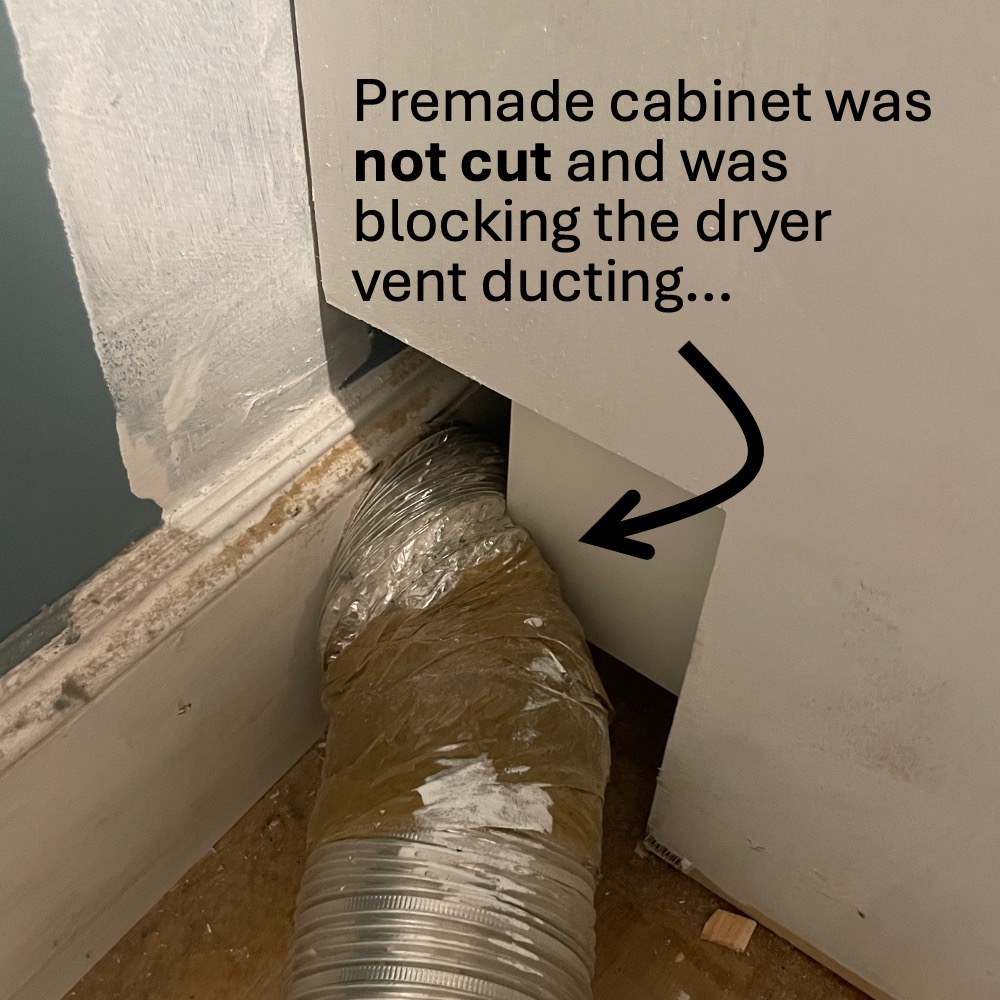
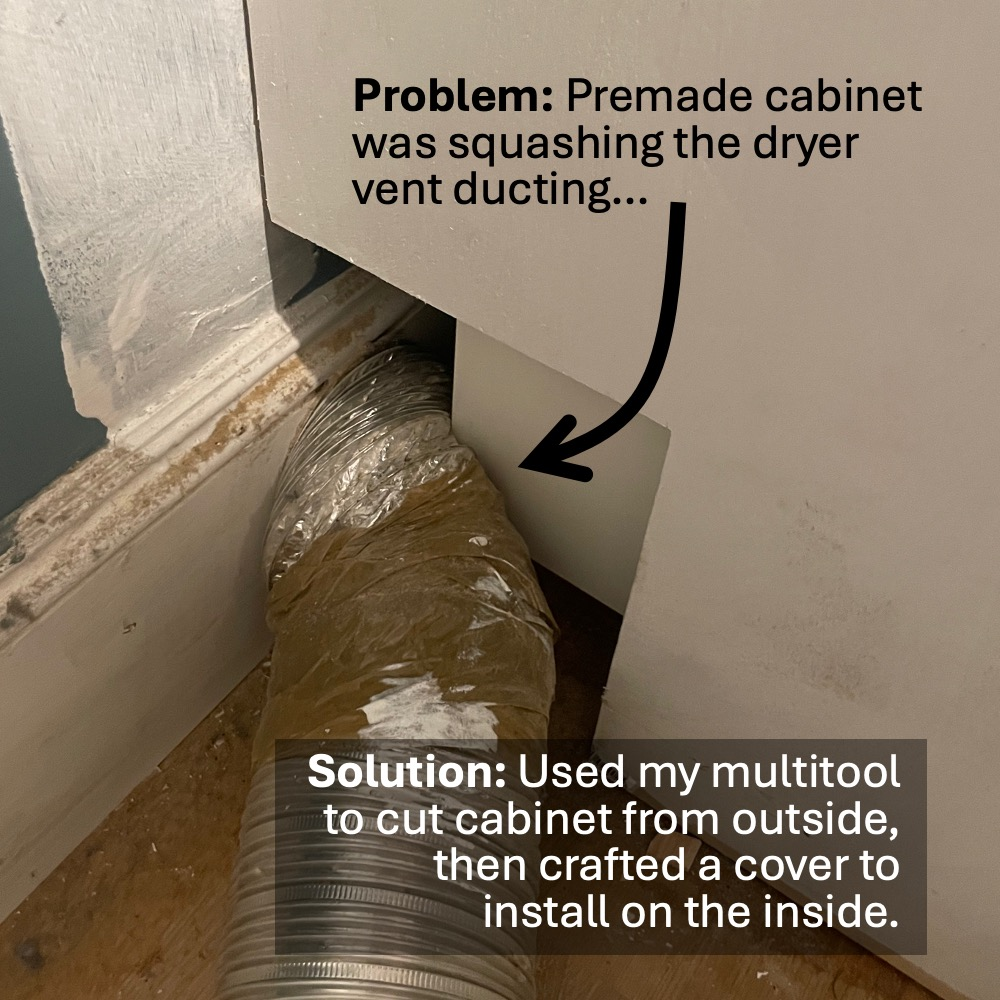
more

diff --git a/_posts/2024-09-20-laundry.md b/_posts/2024-09-20-laundry.md
@@ -40,10 +40,10 @@ The two 16" door slabs swing open with [3.5" hinges](https://www.amazon.com/gp/p
 
 | Challenge | Solution | 
 | --- | --- | 
-| Doors are unfinished. :evergreen_tree: | :heavy_check_mark: Pine was sanded, primed, sanded, and painted twice! :woman_artist: | 
-| Unused bifold track shortened door slabs by 1.5". :door: | :heavy_check_mark: Added strips of wood to the top of the door frame to fill the gap. | 
-| Standard door knob bore holes (2 1/8") don't fit. :hole: | :heavy_check_mark: Installed [antique mortise-style door knobs](https://www.amazon.com/gp/product/B0B74STSV9) instead. |
-| Interior light switch is now blocked. :bulb: | :heavy_check_mark: Relocated switch to hallway using a [wireless receiver kit](https://www.amazon.com/gp/product/B09YHBHP8T/). | 
+| :evergreen_tree: Doors are unfinished. | :heavy_check_mark: Pine was sanded, primed, sanded, and painted twice! :woman_artist: | 
+| :door: Unused bifold track shortened door slabs by 1.5". | :heavy_check_mark: Added strips of wood to the top of the door frame to fill the gap. | 
+| :hole: Standard door knob bore holes (2 1/8") don't fit. | :heavy_check_mark: Installed [antique mortise-style door knobs](https://www.amazon.com/gp/product/B0B74STSV9) instead. |
+| :bulb: Interior light switch is now blocked. | :heavy_check_mark: Relocated switch to hallway using a [wireless receiver kit](https://www.amazon.com/gp/product/B09YHBHP8T/). | 
 
 ![layout](../assets/img/laundry19.jpg){: .mx-auto.d-block :}
 
@@ -54,11 +54,11 @@ because of the flexibility for shelves and cabinet doors.
 
 | Challenge | Solution | 
 | --- | --- | 
-| Cabinet is 90" high in a 93" high room. :ladder: | :heavy_check_mark: Build a 3" base instead of standard 4.5" legs |
-| Regular outlet is inaccessible. :electric_plug: :no_entry_sign: | :heavy_check_mark: Leave 2" gap from wall to fit an [interior recessed outlet](https://www.amazon.com/gp/product/B0BL6LYZ6L/). |
-| Dryer plug point is blocked. | :heavy_check_mark: Install a [removable access panel](https://www.homedepot.com/p/VENTS-US-8-5-8-in-x-11-3-4-in-Plastic-Access-Panel-D250X300/205728949). |
-| Dryer vent ducting overlaps cabinet. | :heavy_check_mark: Cut cabinet to accommodate! :carpentry_saw: | 
-| 9x9x3" security box blocks cabinet front. :closed_lock_with_key: | :heavy_check_mark: Install [shorter cabinet doors](https://www.ikea.com/us/en/p/enkoeping-door-white-wood-effect-50505936/). |
+| :ladder: Cabinet is 90" high in a 93" high room. | :heavy_check_mark: Build a 3" base instead of standard 4.5" legs |
+| :electric_plug: Regular outlet is inaccessible. | :heavy_check_mark: Leave 2" gap from wall to fit an [interior recessed outlet](https://www.amazon.com/gp/product/B0BL6LYZ6L/). |
+| :no_entry_sign: Dryer plug point is blocked. | :heavy_check_mark: Install a [removable access panel](https://www.homedepot.com/p/VENTS-US-8-5-8-in-x-11-3-4-in-Plastic-Access-Panel-D250X300/205728949). |
+| :carpentry_saw: Dryer vent ducting overlaps cabinet. | :heavy_check_mark: Cut cabinet to accommodate! | 
+| :closed_lock_with_key: 9x9x3" security box blocks cabinet front. | :heavy_check_mark: Install [shorter cabinet doors](https://www.ikea.com/us/en/p/enkoeping-door-white-wood-effect-50505936/). |
 
 ![layout](../assets/img/laundry17.jpg){: .mx-auto.d-block :}
 
@@ -92,10 +92,8 @@ I called the [Dryer Vent Wizards](https://www.dryerventwizard.com/locations/grea
 and fixed a couple of problems the next morning... 
 
 ![layout](../assets/img/laundry23.jpg){: .mx-auto.d-block :}
-***Fix:** They used my multitool to cut up the cabinet from the outside (then I crafted and installed a box to cover the hole from the inside).*
 
 ![layout](../assets/img/laundry24.jpg){: .mx-auto.d-block :}
-***Fix:** They reconnected and screwed in the dryer vent.*
 
 Unfortunately, this led to another new problem...
 
